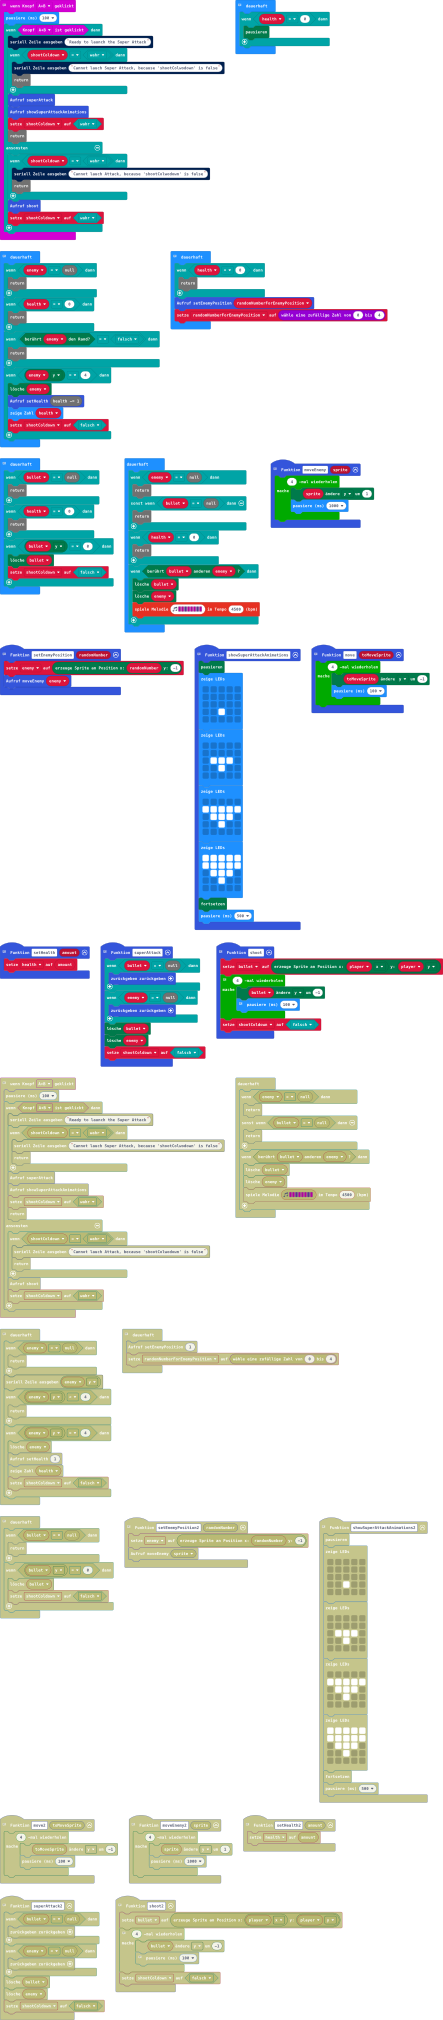
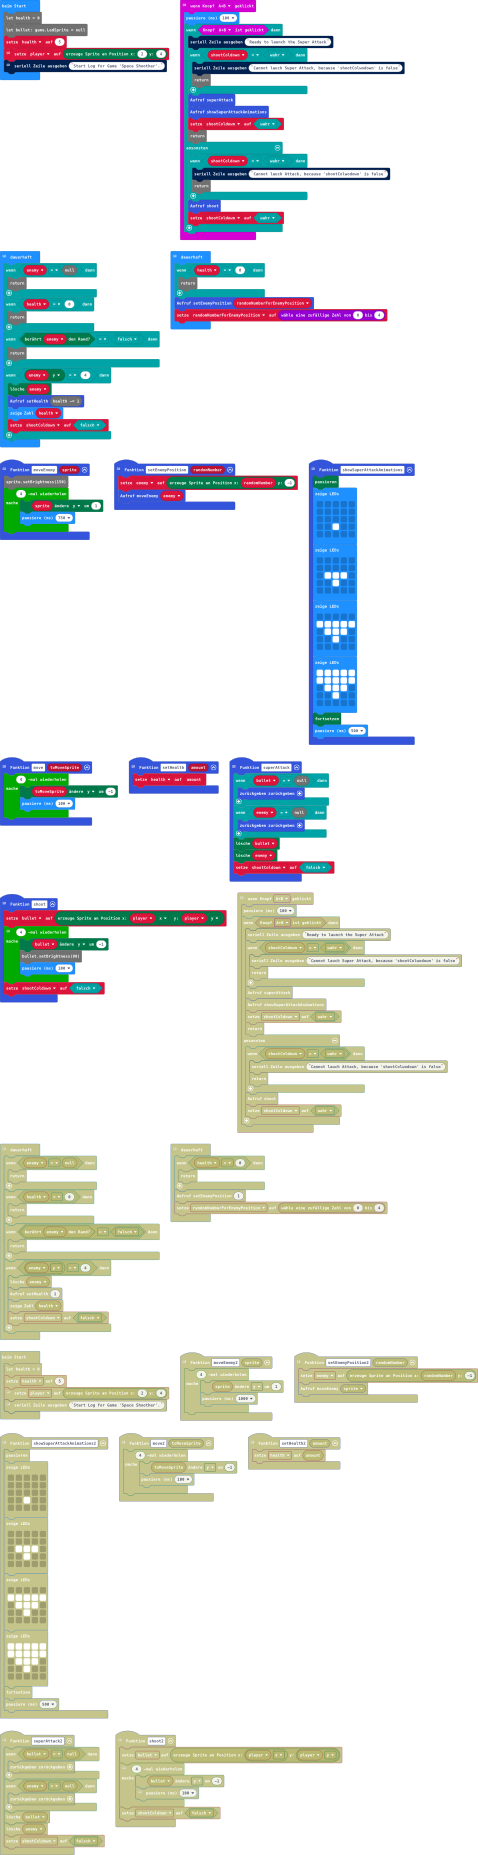
Aktualisiere main.blocks, main.ts

diff --git a/main.ts b/main.ts
@@ -38,9 +38,10 @@ function showSuperAttackAnimations () {
 }
 // Moves an Enemy
 function moveEnemy (sprite: game.LedSprite) {
-    for (let index = 0; index < 4; index++) {
+    sprite.setBrightness(150)
+for (let index = 0; index < 4; index++) {
         sprite.change(LedSpriteProperty.Y, 1)
-        basic.pause(1000)
+        basic.pause(750)
     }
 }
 // Change the Y - Coordinate of the bullet to simulate a shoot Animation
@@ -49,8 +50,8 @@ function shoot () {
     // music.playMelody("C5 B A G F F F F ", 5000)
     for (let index = 0; index < 4; index++) {
         bullet.change(LedSpriteProperty.Y, -1)
-        // bullet.setBrightness(80)
-        basic.pause(100)
+        bullet.setBrightness(80)
+basic.pause(100)
     }
     shootColdown = false
 }
@@ -111,9 +112,9 @@ function setEnemyPosition (randomNumber: number) {
 let randomNumberForEnemyPosition = 0
 let enemy: game.LedSprite = null
 let shootColdown = false
-let bullet: game.LedSprite = null
 let player: game.LedSprite = null
 let health = 0
+let bullet: game.LedSprite = null
 health = 5
 // Create Player
 player = game.createSprite(2, 4)
